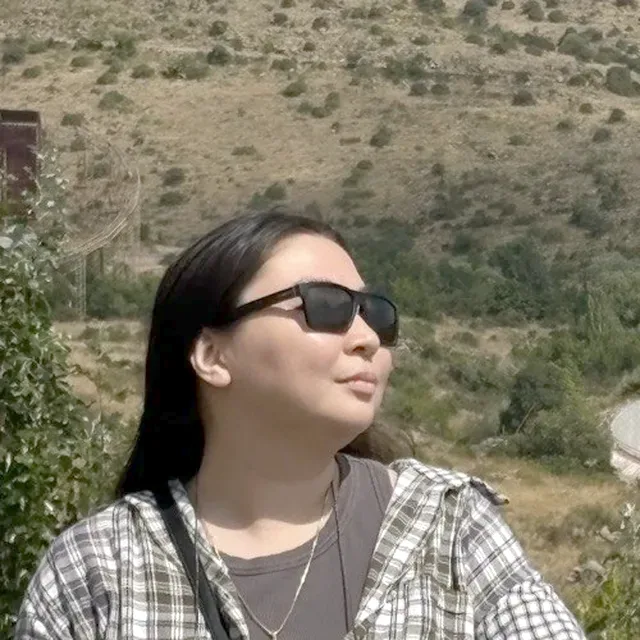
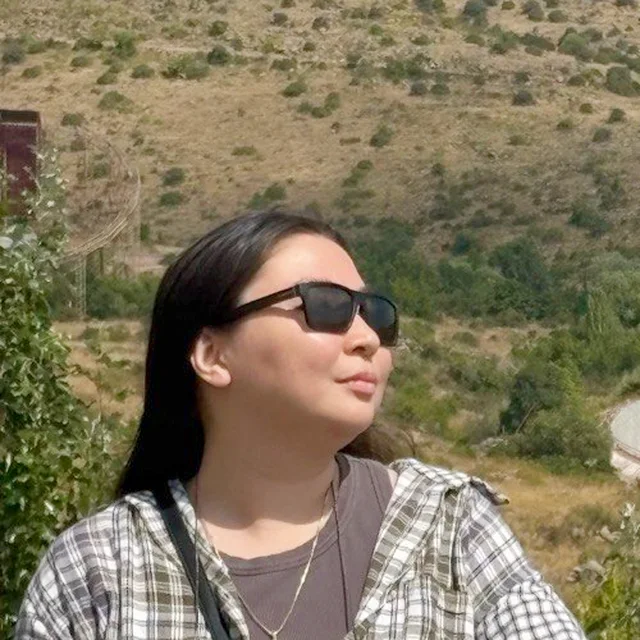
Grade member photos from the originals with one script
scripts/people_photos.py crops each original, converts it to sRGB from its embedded profile (two were Display P3 and came out washed out when read as sRGB), lifts exposure toward a face target while keeping blacks black, adds vibrance with less on skin, and a mild S-curve. The CSS brightness filter is gone; tone lives in the files.

diff --git a/scripts/people_photos.py b/scripts/people_photos.py
@@ -1,0 +1,125 @@
+#!/usr/bin/env python3
+"""Member photos: crop, colour-manage and grade every portrait the same way.
+
+Sources live in assets/people-src/<id>.<ext> (not tracked; originals as sent).
+Writes public/people/<id>.webp, 640 px square.
+
+    python3 scripts/people_photos.py              # all photos
+    python3 scripts/people_photos.py adel-umirbayeva --strength 1.2
+
+Each photo is converted to sRGB from its embedded profile first: phone photos
+are often Display P3, and reading them as sRGB makes them look washed out.
+Then one recipe:
+  - exposure: a gamma that moves the face box toward FACE_TARGET luminance,
+  - vibrance: saturation lifted more where it is low, half as much on skin,
+  - a mild S-curve for contrast,
+  - a check that reports how much of the frame is clipped to white.
+A new member: add the source file and a CROPS entry (left, top, side in source
+pixels, chosen with the face a little above centre), then rerun.
+"""
+
+import argparse
+import io
+import sys
+from pathlib import Path
+
+import numpy as np
+from PIL import Image, ImageCms, ImageOps
+
+ROOT = Path(__file__).resolve().parent.parent
+SRC = ROOT / "assets/people-src"
+OUT = ROOT / "public/people"
+SIZE = 640
+
+# id: (left, top, side) in source pixels; None = centred square of the short side.
+CROPS = {
+    "dana-alina": (0, 120, 734),
+    "adel-umirbayeva": (0, 40, 760),
+    "dana-makarova": (0, 450, 500),
+    "baurzhan-kumarioldanov": (230, 140, 820),
+    "denis-andreyev": (470, 380, 2460),
+    "abusultan-meirambekuly": (663, 130, 780),
+    "eldana-rustem": None,
+}
+# Face box as fractions of the cropped square (x0, y0, x1, y1).
+FACE = (0.32, 0.22, 0.68, 0.58)
+FACE_TARGET = 0.56   # mean face luminance after grading
+VIBRANCE = 0.55      # extra saturation for grey pixels; vivid ones get less
+SKIN_GUARD = 0.5     # share of the vibrance kept on skin hues
+CONTRAST = 0.12      # S-curve strength
+
+
+def to_srgb(im):
+    icc = im.info.get("icc_profile")
+    im = ImageOps.exif_transpose(im)
+    if im.mode in ("RGBA", "LA", "P"):
+        im = im.convert("RGBA")
+        bg = Image.new("RGBA", im.size, (0, 0, 0, 255))
+        im = Image.alpha_composite(bg, im)
+    im = im.convert("RGB")
+    if icc:
+        src = ImageCms.ImageCmsProfile(io.BytesIO(icc))
+        im = ImageCms.profileToProfile(im, src, ImageCms.createProfile("sRGB"), outputMode="RGB")
+    return im
+
+
+def grade(rgb, strength=1.0):
+    a = np.asarray(rgb, float) / 255
+    h, w, _ = a.shape
+    lum = lambda x: x @ np.array([0.2126, 0.7152, 0.0722])
+    x0, y0, x1, y1 = FACE
+    box = lum(a[int(h * y0):int(h * y1), int(w * x0):int(w * x1)])
+    # Face brightness from the lit part of the box only, so hair and sunglasses
+    # do not count as a dark face.
+    face = float(np.median(box[box > np.percentile(box, 40)]))
+    # Exposure: gamma toward the target, never darker, never more than 0.6.
+    g = np.clip(np.log(FACE_TARGET) / np.log(max(face, 1e-3)), 0.6, 1.0) if face < FACE_TARGET else 1.0
+    black = np.percentile(lum(a), 0.5)
+    a = a ** g
+    # A gamma lift greys the blacks too (a dark jacket turns charcoal); pull the
+    # 0.5th percentile back to where it was.
+    b2 = black ** g
+    if b2 > black:
+        a = np.clip((a - (b2 - black)) / (1 - (b2 - black)), 0, 1)  # unclipped negatives wrap in uint8
+    # Vibrance in HSV: s' = s * (1 + v * (1 - s) * k), k lowered on skin hues.
+    hsv = np.asarray(Image.fromarray((a * 255).astype(np.uint8)).convert("HSV"), float) / 255
+    hue, s = hsv[..., 0] * 360, hsv[..., 1]
+    skin = np.exp(-(((hue - 25 + 180) % 360 - 180) / 25) ** 2)
+    k = 1 - (1 - SKIN_GUARD) * skin
+    hsv[..., 1] = np.clip(s * (1 + VIBRANCE * strength * (1 - s) * k), 0, 1)
+    a = np.asarray(Image.fromarray((hsv * 255).astype(np.uint8), "HSV").convert("RGB"), float) / 255
+    # S-curve around mid-grey.
+    c = CONTRAST * strength
+    a = a + c * (a - 0.5) * (1 - np.abs(2 * a - 1))
+    a = np.clip(a, 0, 1)
+    clipped = (lum(a) > 0.985).mean()
+    return Image.fromarray((a * 255 + 0.5).astype(np.uint8)), face, g, clipped
+
+
+def main():
+    ap = argparse.ArgumentParser()
+    ap.add_argument("ids", nargs="*")
+    ap.add_argument("--strength", type=float, default=1.0, help="scales vibrance and contrast")
+    ap.add_argument("--out", type=Path, default=OUT)
+    args = ap.parse_args()
+    ids = args.ids or list(CROPS)
+    args.out.mkdir(parents=True, exist_ok=True)
+    for pid in ids:
+        src = next(SRC.glob(f"{pid}.*"), None)
+        if src is None:
+            sys.exit(f"{pid}: no source in {SRC}")
+        im = to_srgb(Image.open(src))
+        box = CROPS[pid]
+        if box is None:
+            s = min(im.size)
+            box = ((im.width - s) // 2, (im.height - s) // 2, s)
+        l, t, s = box
+        im = im.crop((l, t, l + s, t + s)).resize((SIZE, SIZE), Image.LANCZOS)
+        out, face, g, clipped = grade(im, args.strength)
+        out.save(args.out / f"{pid}.webp", "WEBP", quality=84)
+        flag = "  CLIPPED" if clipped > 0.08 else ""
+        print(f"{pid:26s} face {face:.2f} gamma {g:.2f} white {clipped:5.1%}{flag}")
+
+
+if __name__ == "__main__":
+    main()

diff --git a/README.md b/README.md
@@ -46,6 +46,7 @@ build needs none of this. Rerun the scripts when a source changes.
 | `scripts/composites.py` | Herschel, Spitzer, WISE (HiPS tiles), SHASSA H-alpha (SkyView), Planck; HiPS cutouts cached in `.cache/hips/` | `public/sky/comp-*.webp`, `src/data/composites.json`; with `insets`, the finer renders around R136 for the scroll zoom (`public/sky/lmc-30dor-*`, `lmc-tarantula-*`, `src/data/zoom-insets.json`) |
 | `scripts/assy_map.py` | Natural Earth 1:50m countries GeoJSON (path as argument) | `src/data/assy-map.json` |
 | `scripts/ml_card.py` | `public/sky/unet-herschel.webp`, `public/sky/unet-data.png` | `public/sky/ml-card-960.webp` |
+| `scripts/people_photos.py` | member photos as sent, in `assets/people-src/` (not tracked) | `public/people/*.webp` (crop, sRGB, exposure, vibrance) |
 
     python3 scripts/fetch_publications.py
     python3 scripts/webb_images.py
